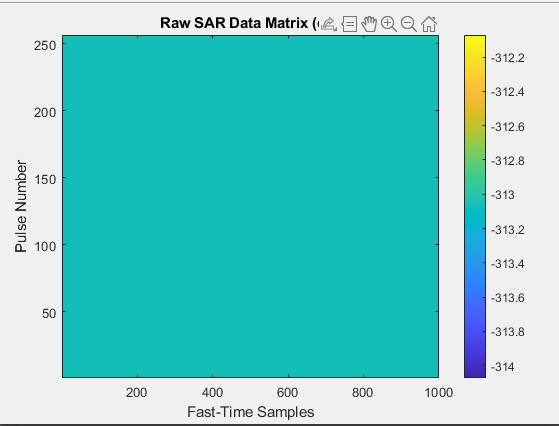
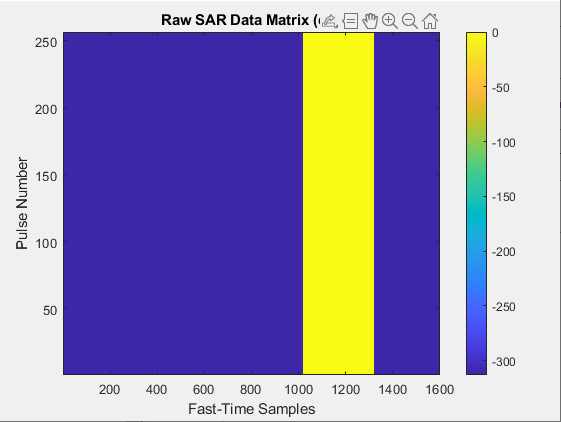
added azimuth compression

diff --git a/main.m b/main.m
@@ -21,6 +21,19 @@ platform = generatePlatformTrajectory(radar);
 %% Generate Raw SAR data
 rawData = generateRawSARData(radar, platform, targets, tx);
 
+%% Range Compression of Raw SAR Data
+rangeCompressedSAR = zeros(size(rawData));
+
+for k = 1:size(rawData,1)
+    rangeCompressedSAR(k,:) = ...
+        rangeCompression(tx, rawData(k,:));
+end
+
+%% Azimuth Compression
+
+focusedSAR = azimuthCompression( ...
+    rangeCompressedSAR, radar, platform, targets);
+
 %% Simulate Received Echo
 [rx, delay] = simulateEcho(radar, targets, tx);
 
@@ -138,3 +151,37 @@ title('Raw SAR Data Matrix (dB)');
 
 colorbar;
 axis xy;
+
+%% ==========================================================
+%% Figure 7 : Range-Compressed SAR Data
+%% ==========================================================
+figure;
+imagesc(20*log10(abs(rangeCompressedSAR) + eps));
+xlabel('Fast-Time Samples');
+ylabel('Pulse Number');
+title('Range-Compressed SAR Data (dB)');
+colorbar;
+axis xy;
+%% ==========================================================
+%% Figure 8 : Focused SAR Image
+%% ==========================================================
+figure;
+imagesc(20*log10(abs(focusedSAR) + eps));
+xlabel('Fast-Time Samples');
+ylabel('Pulse Number');
+title('Focused SAR Image (dB)');
+colorbar;
+axis xy;
+
+%% ==========================================================
+%% Azimuth Compression Verification
+%% ==========================================================
+[maxFocused, linearIndex] = max(abs(focusedSAR(:)));
+
+[peakAzimuth, peakRange] = ind2sub( ...
+    size(focusedSAR), linearIndex);
+
+fprintf('\n===== SAR IMAGE FOCUSING RESULTS =====\n');
+fprintf('Maximum focused magnitude = %.6f\n', maxFocused);
+fprintf('Peak azimuth sample       = %d\n', peakAzimuth);
+fprintf('Peak range sample         = %d\n', peakRange);

diff --git a/src/processing/azimuthCompression.m b/src/processing/azimuthCompression.m
@@ -1,0 +1,38 @@
+function focusedSAR = azimuthCompression(rangeCompressedSAR, radar, platform, targets)
+
+% Number of pulses
+numPulses = platform.numPulses;
+
+% ==========================================================
+% Azimuth phase history
+% ==========================================================
+
+R = sqrt((platform.x - targets.x).^2 + ...
+         targets.y^2 + ...
+         radar.H^2);
+
+azimuthReference = exp( ...
+    -1j * 4 * pi * radar.fc * R / radar.c);
+
+% ==========================================================
+% Azimuth matched filter
+% ==========================================================
+
+matchedFilter = conj(fliplr(azimuthReference));
+
+% ==========================================================
+% Azimuth compression
+% ==========================================================
+
+focusedSAR = zeros(size(rangeCompressedSAR));
+
+for n = 1:size(rangeCompressedSAR,2)
+
+    focusedSAR(:,n) = ...
+        conv(rangeCompressedSAR(:,n), ...
+             matchedFilter, ...
+             'same');
+
+end
+
+end

diff --git a/src/simulation/generatePlatformTrajectory.m b/src/simulation/generatePlatformTrajectory.m
@@ -3,16 +3,19 @@ function platform = generatePlatformTrajectory(radar)
 % Number of transmitted pulses
 platform.numPulses = 256;
 
-% Aperture length
-platform.apertureLength = radar.La;
+% Platform displacement between successive pulses
+platform.pulseSpacing = radar.v / radar.PRF;
+
+% Total synthetic aperture length
+platform.apertureLength = ...
+    (platform.numPulses - 1) * platform.pulseSpacing;
 
 % Along-track positions
-platform.x = linspace(...
-    -platform.apertureLength/2,...
-     platform.apertureLength/2,...
-     platform.numPulses);
+platform.x = ...
+    ((0:platform.numPulses-1) - (platform.numPulses-1)/2) ...
+    * platform.pulseSpacing;
 
 % Constant altitude
-platform.z = radar.H * ones(1,platform.numPulses);
+platform.z = radar.H * ones(1, platform.numPulses);
 
 end

diff --git a/src/simulation/generateRawSARData.m b/src/simulation/generateRawSARData.m
@@ -13,17 +13,22 @@ for k = 1:platform.numPulses
              radar.H^2);
 
     % Round-trip delay
-    delay = 2*R/radar.c;
+    delay = 2 * R / radar.c;
 
     % Delay in samples
-    delaySamples = round(delay*radar.fs);
+    delaySamples = round(delay * radar.fs);
 
+    % Azimuth-dependent carrier phase history
+    phaseHistory = exp(-1j * 4 * pi * radar.fc * R / radar.c);
+
+    % Length of transmitted chirp
     L = length(tx);
 
+    % Insert delayed, phase-modulated echo
     if (delaySamples + L - 1) <= radar.Nfast
 
         rawData(k, delaySamples+1:delaySamples+L) = ...
-            targets.rcs * tx;
+            targets.rcs * phaseHistory * tx;
 
     end
 
